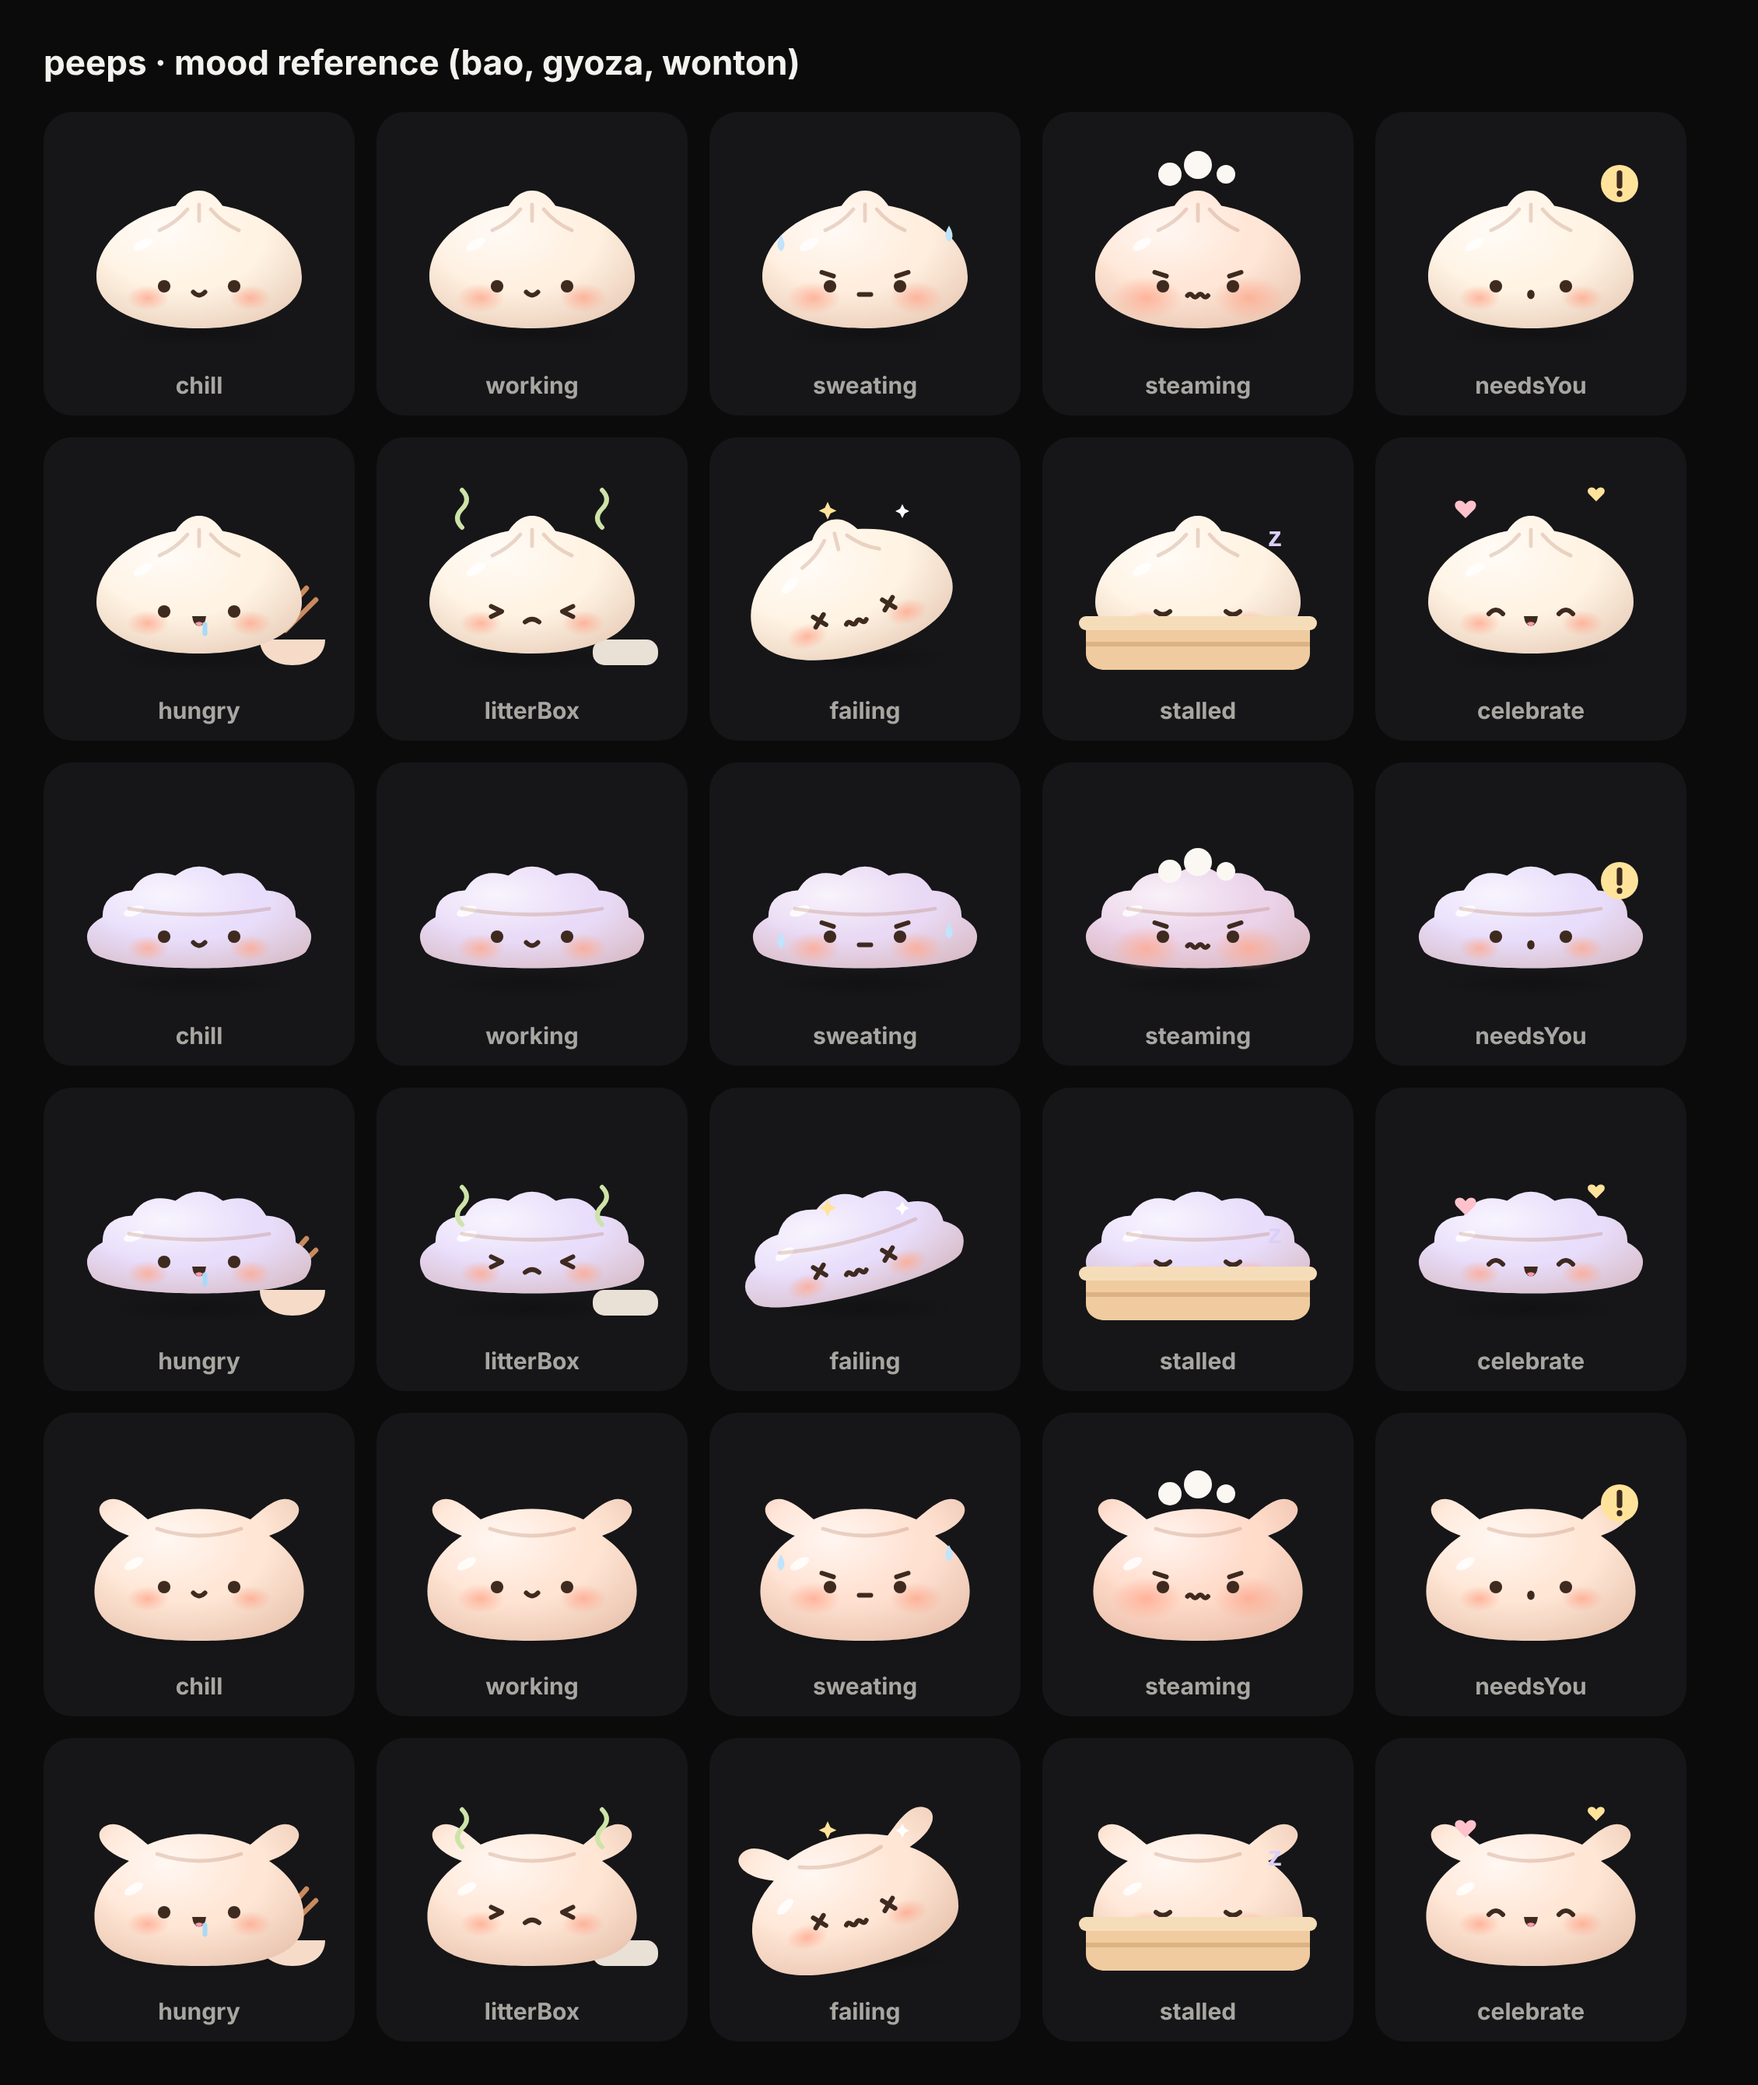
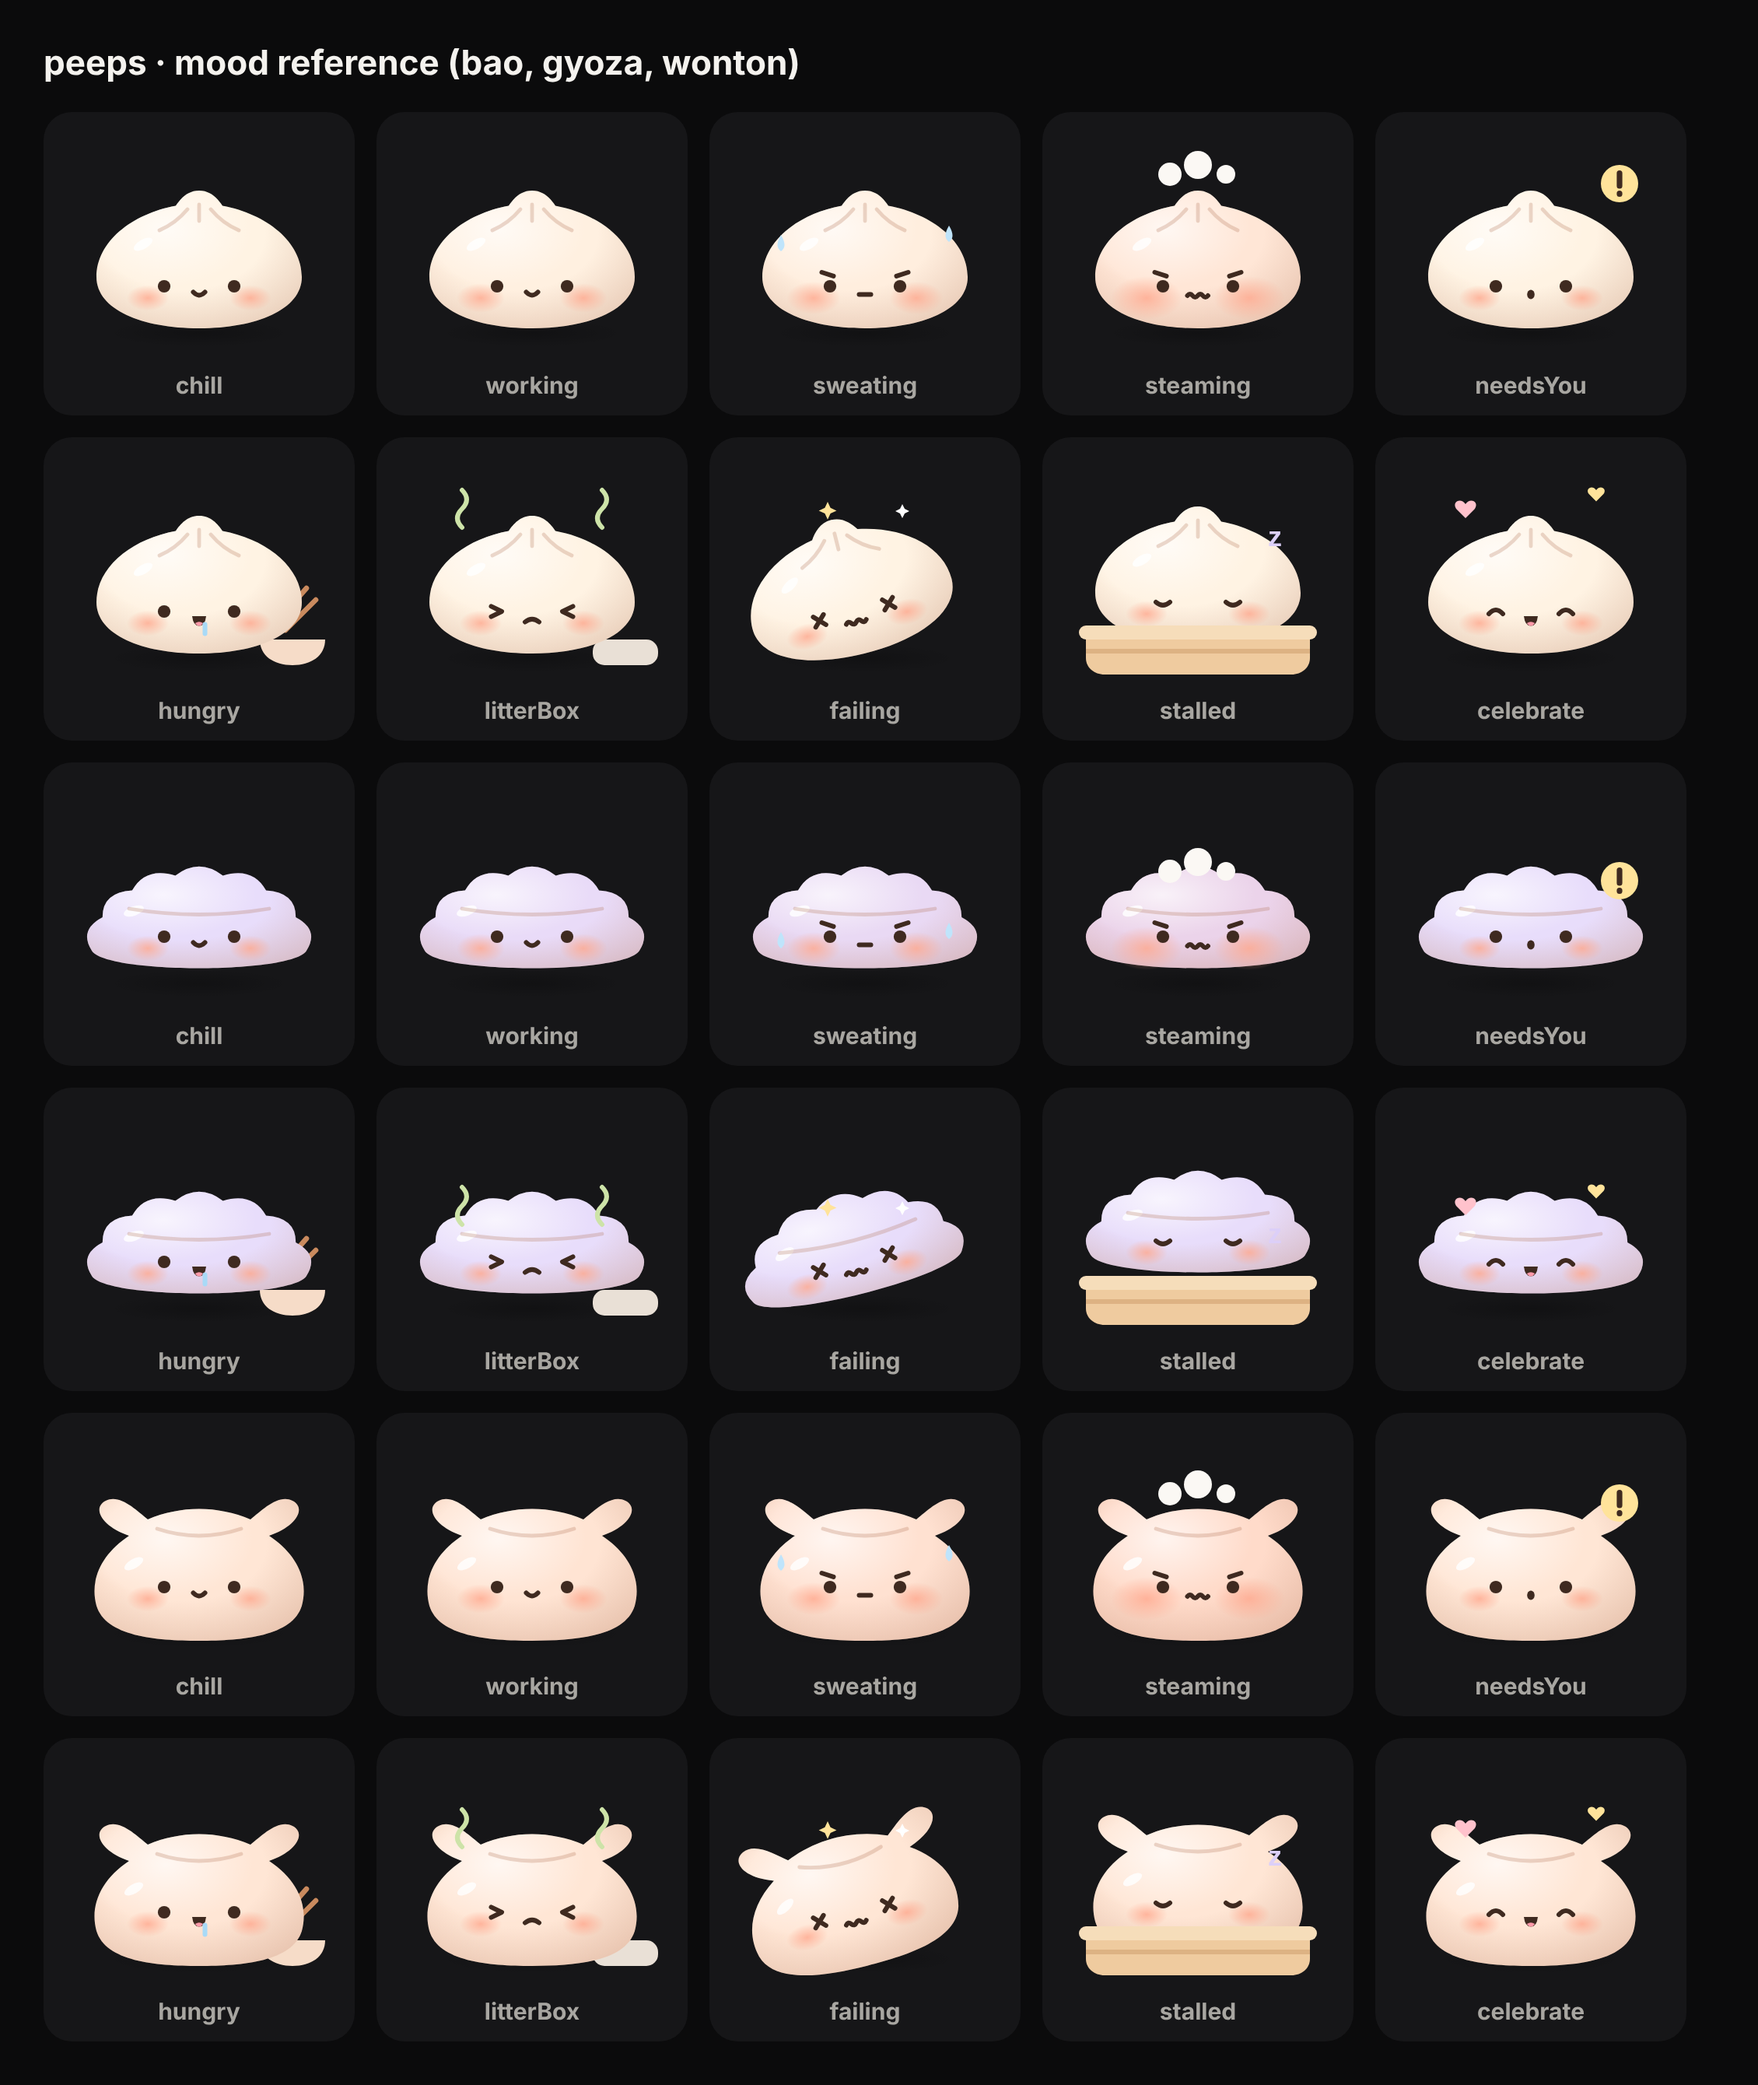
Let napping pets peek over the steamer rim; version 0.1.1

Changed region(s): [[0.6195, 0.8672, 0.7434, 0.9601], [0.6195, 0.5575, 0.7434, 0.6504], [0.6195, 0.2478, 0.7434, 0.3407]]

diff --git a/src/pets/Dumpling.tsx b/src/pets/Dumpling.tsx
@@ -17,6 +17,8 @@ interface Shape {
   creases: string;
   highlight: number[];
   fxOffset: number;
+  /** How far the pet rises in the steamer so its face peeks over the rim. */
+  napLift: number;
 }
 
 // The same shapes feed design/rive/generate.py, so Rive pets can replace these one for one.
@@ -212,9 +214,9 @@ function PropInFront({ mood }: { mood: Mood }) {
   if (mood !== "stalled") return null;
   return (
     <>
-      <path d="M12 74h96v12c0 4-3.5 7-8 7H20c-4.5 0-8-3-8-7z" fill="#EFCB9F" />
-      <path d="M12 82h96" stroke="#DDB283" strokeWidth={2} />
-      <rect x="9" y="70" width="102" height="6" rx="3" fill="#F6DDBA" />
+      <path d="M12 78h96v10c0 4-3.5 7-8 7H20c-4.5 0-8-3-8-7z" fill="#EFCB9F" />
+      <path d="M12 85h96" stroke="#DDB283" strokeWidth={2} />
+      <rect x="9" y="74" width="102" height="6" rx="3" fill="#F6DDBA" />
     </>
   );
 }
@@ -255,44 +257,50 @@ export function Dumpling({ kind, color, mood, heat, size = 64 }: Props) {
       </defs>
       <ellipse cx="60" cy="88" rx="40" ry="6" fill={`url(#${id}shadow)`} />
       <PropBehind mood={mood} />
-      <g className="dumpling__body">
-        <path d={shape.body} fill={flushed(color, heat)} />
-        <path d={shape.body} fill={`url(#${id}shade)`} />
-        <path d={shape.body} fill={`url(#${id}glow)`} />
-        <ellipse
-          cx={hx}
-          cy={hy}
-          rx="4.5"
-          ry="2"
-          fill="#FFFFFF"
-          opacity={0.8}
-          transform={`rotate(${hr} ${hx} ${hy})`}
-        />
-        <path
-          d={shape.creases}
-          stroke="#B5785A"
-          strokeOpacity={0.28}
-          strokeWidth={1.6}
-          strokeLinecap="round"
-          fill="none"
-        />
-        <ellipse
-          cx="38"
-          cy="73"
-          rx={9 * blush}
-          ry={5.5 * blush}
-          fill={`url(#${id}blush)`}
-        />
-        <ellipse
-          cx="82"
-          cy="73"
-          rx={9 * blush}
-          ry={5.5 * blush}
-          fill={`url(#${id}blush)`}
-        />
-        <Eyes mood={mood} />
-        <Brows mood={mood} />
-        <Mouth mood={mood} />
+      <g
+        transform={
+          mood === "stalled" ? `translate(0 ${-shape.napLift})` : undefined
+        }
+      >
+        <g className="dumpling__body">
+          <path d={shape.body} fill={flushed(color, heat)} />
+          <path d={shape.body} fill={`url(#${id}shade)`} />
+          <path d={shape.body} fill={`url(#${id}glow)`} />
+          <ellipse
+            cx={hx}
+            cy={hy}
+            rx="4.5"
+            ry="2"
+            fill="#FFFFFF"
+            opacity={0.8}
+            transform={`rotate(${hr} ${hx} ${hy})`}
+          />
+          <path
+            d={shape.creases}
+            stroke="#B5785A"
+            strokeOpacity={0.28}
+            strokeWidth={1.6}
+            strokeLinecap="round"
+            fill="none"
+          />
+          <ellipse
+            cx="38"
+            cy="73"
+            rx={9 * blush}
+            ry={5.5 * blush}
+            fill={`url(#${id}blush)`}
+          />
+          <ellipse
+            cx="82"
+            cy="73"
+            rx={9 * blush}
+            ry={5.5 * blush}
+            fill={`url(#${id}blush)`}
+          />
+          <Eyes mood={mood} />
+          <Brows mood={mood} />
+          <Mouth mood={mood} />
+        </g>
       </g>
       <PropInFront mood={mood} />
       <g transform={`translate(0 ${shape.fxOffset})`}>

diff --git a/design/rive/generate.py b/design/rive/generate.py
@@ -88,9 +88,9 @@ def svg(kind, shape):
   </g>
   <g id="props-front">
     <g id="steamer"{hidden(False)}>
-      <path d="M12 74h96v12c0 4-3.5 7-8 7H20c-4.5 0-8-3-8-7z" fill="#EFCB9F"/>
-      <path d="M12 82h96" stroke="#DDB283" stroke-width="2"/>
-      <rect x="9" y="70" width="102" height="6" rx="3" fill="#F6DDBA"/>
+      <path d="M12 78h96v10c0 4-3.5 7-8 7H20c-4.5 0-8-3-8-7z" fill="#EFCB9F"/>
+      <path d="M12 85h96" stroke="#DDB283" stroke-width="2"/>
+      <rect x="9" y="74" width="102" height="6" rx="3" fill="#F6DDBA"/>
     </g>
   </g>
   <g id="fx" transform="translate(0 {shape["fxOffset"]})">

diff --git a/design/rive/README.md b/design/rive/README.md
@@ -58,17 +58,17 @@ Redraw anything you like. Keep the layer names so the states below still make se
 
 Each `mood` value is one looping state. Blend between states over about 200 ms so mood changes never snap.
 
-| `mood`        | Layers                                                 | Motion                                                                      |
-| ------------- | ------------------------------------------------------ | --------------------------------------------------------------------------- |
-| 0 `chill`     | `eyes-open`, `mouth-smile`                             | Slow breathing squash, a blink every 3 to 5 s                               |
-| 1 `working`   | `eyes-open`, `mouth-smile`                             | Quick bob; eyes glance left and right as if reading                         |
-| 2 `sweating`  | `eyes-open`, `brows`, `mouth-flat`, `fx-sweat`         | Faster bob; drops slide down and fade, one at a time                        |
-| 3 `steaming`  | `eyes-open`, `brows`, `mouth-wavy`, `fx-steam`         | Small jitter; puffs rise, grow and fade in turn                             |
-| 4 `needsYou`  | `eyes-open`, `mouth-o`, `fx-bang`                      | Hops with squash on landing; `!` pulses. The most attention-grabbing state. |
-| 5 `hungry`    | `eyes-open`, `mouth-open-smile`, `drool`, `bowl`       | Leans towards the bowl with its chopsticks and back; drool stretches        |
-| 6 `litterBox` | `eyes-squint`, `mouth-frown`, `fx-stink`, `litter-box` | Shuffles away from the box; stink lines wave upwards                        |
-| 7 `failing`   | `eyes-x`, `mouth-wavy`, `fx-stars`                     | Tipped over about 14°, gentle wobble; stars orbit the head                  |
-| 8 `stalled`   | `eyes-closed`, `steamer`, `fx-zzz`                     | Naps in the steamer: very slow breathing, z floats up and fades             |
+| `mood`        | Layers                                                 | Motion                                                                                                                                 |
+| ------------- | ------------------------------------------------------ | -------------------------------------------------------------------------------------------------------------------------------------- |
+| 0 `chill`     | `eyes-open`, `mouth-smile`                             | Slow breathing squash, a blink every 3 to 5 s                                                                                          |
+| 1 `working`   | `eyes-open`, `mouth-smile`                             | Quick bob; eyes glance left and right as if reading                                                                                    |
+| 2 `sweating`  | `eyes-open`, `brows`, `mouth-flat`, `fx-sweat`         | Faster bob; drops slide down and fade, one at a time                                                                                   |
+| 3 `steaming`  | `eyes-open`, `brows`, `mouth-wavy`, `fx-steam`         | Small jitter; puffs rise, grow and fade in turn                                                                                        |
+| 4 `needsYou`  | `eyes-open`, `mouth-o`, `fx-bang`                      | Hops with squash on landing; `!` pulses. The most attention-grabbing state.                                                            |
+| 5 `hungry`    | `eyes-open`, `mouth-open-smile`, `drool`, `bowl`       | Leans towards the bowl with its chopsticks and back; drool stretches                                                                   |
+| 6 `litterBox` | `eyes-squint`, `mouth-frown`, `fx-stink`, `litter-box` | Shuffles away from the box; stink lines wave upwards                                                                                   |
+| 7 `failing`   | `eyes-x`, `mouth-wavy`, `fx-stars`                     | Tipped over about 14°, gentle wobble; stars orbit the head                                                                             |
+| 8 `stalled`   | `eyes-closed`, `steamer`, `fx-zzz`                     | Naps in the steamer, raised by `napLift` from `shapes.json` so the face peeks over the rim; very slow breathing, z floats up and fades |
 
 ### Heat (any state)
 
